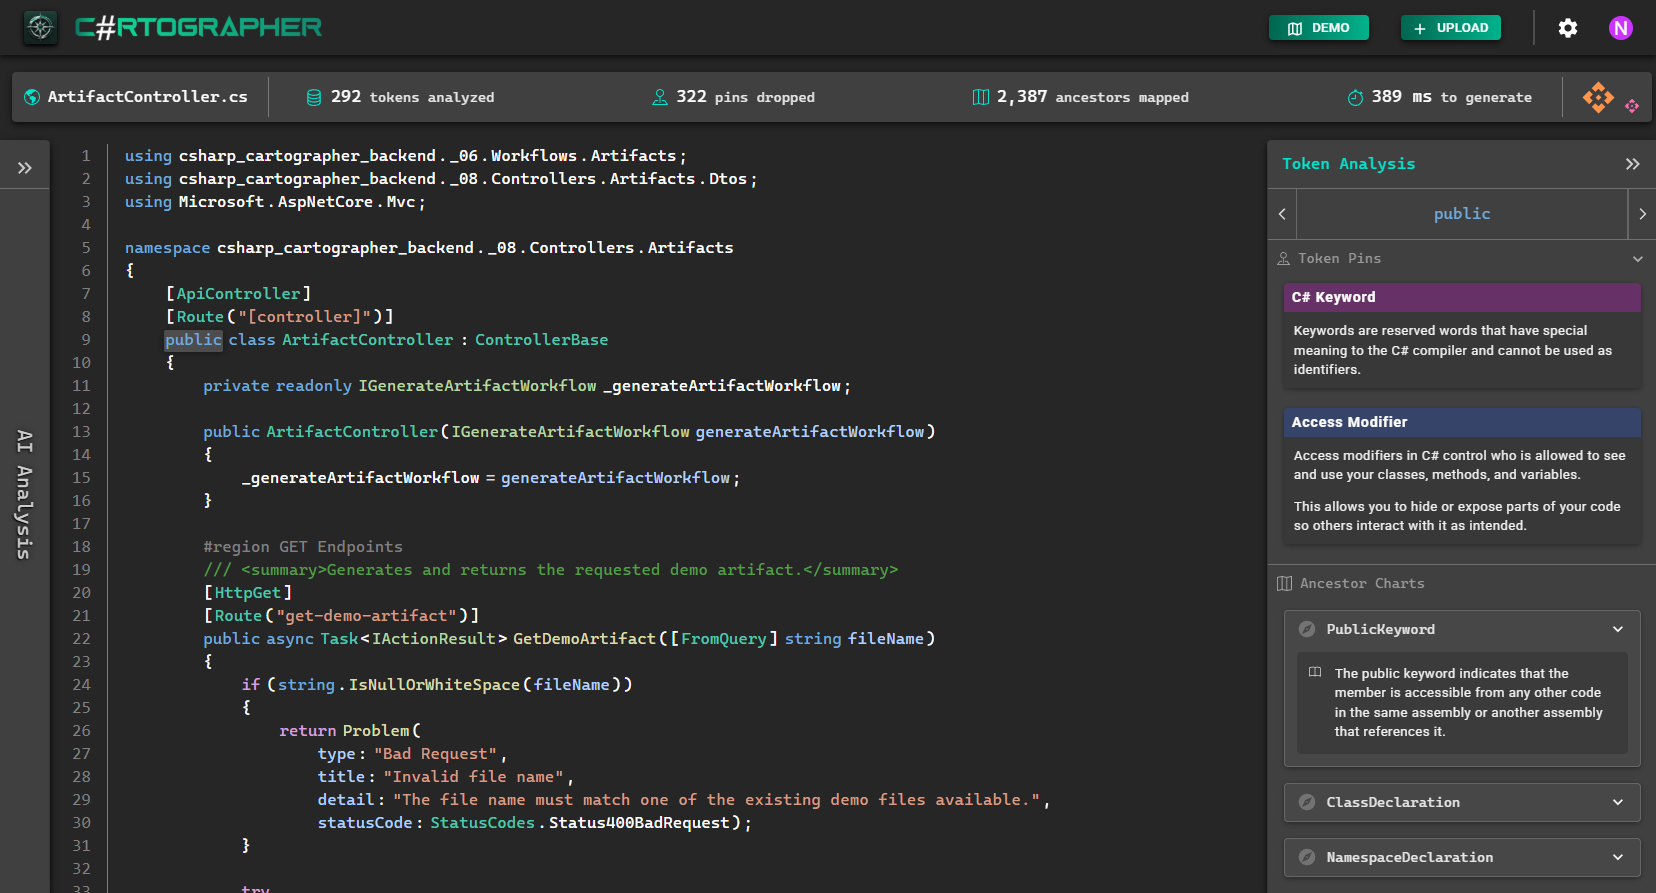
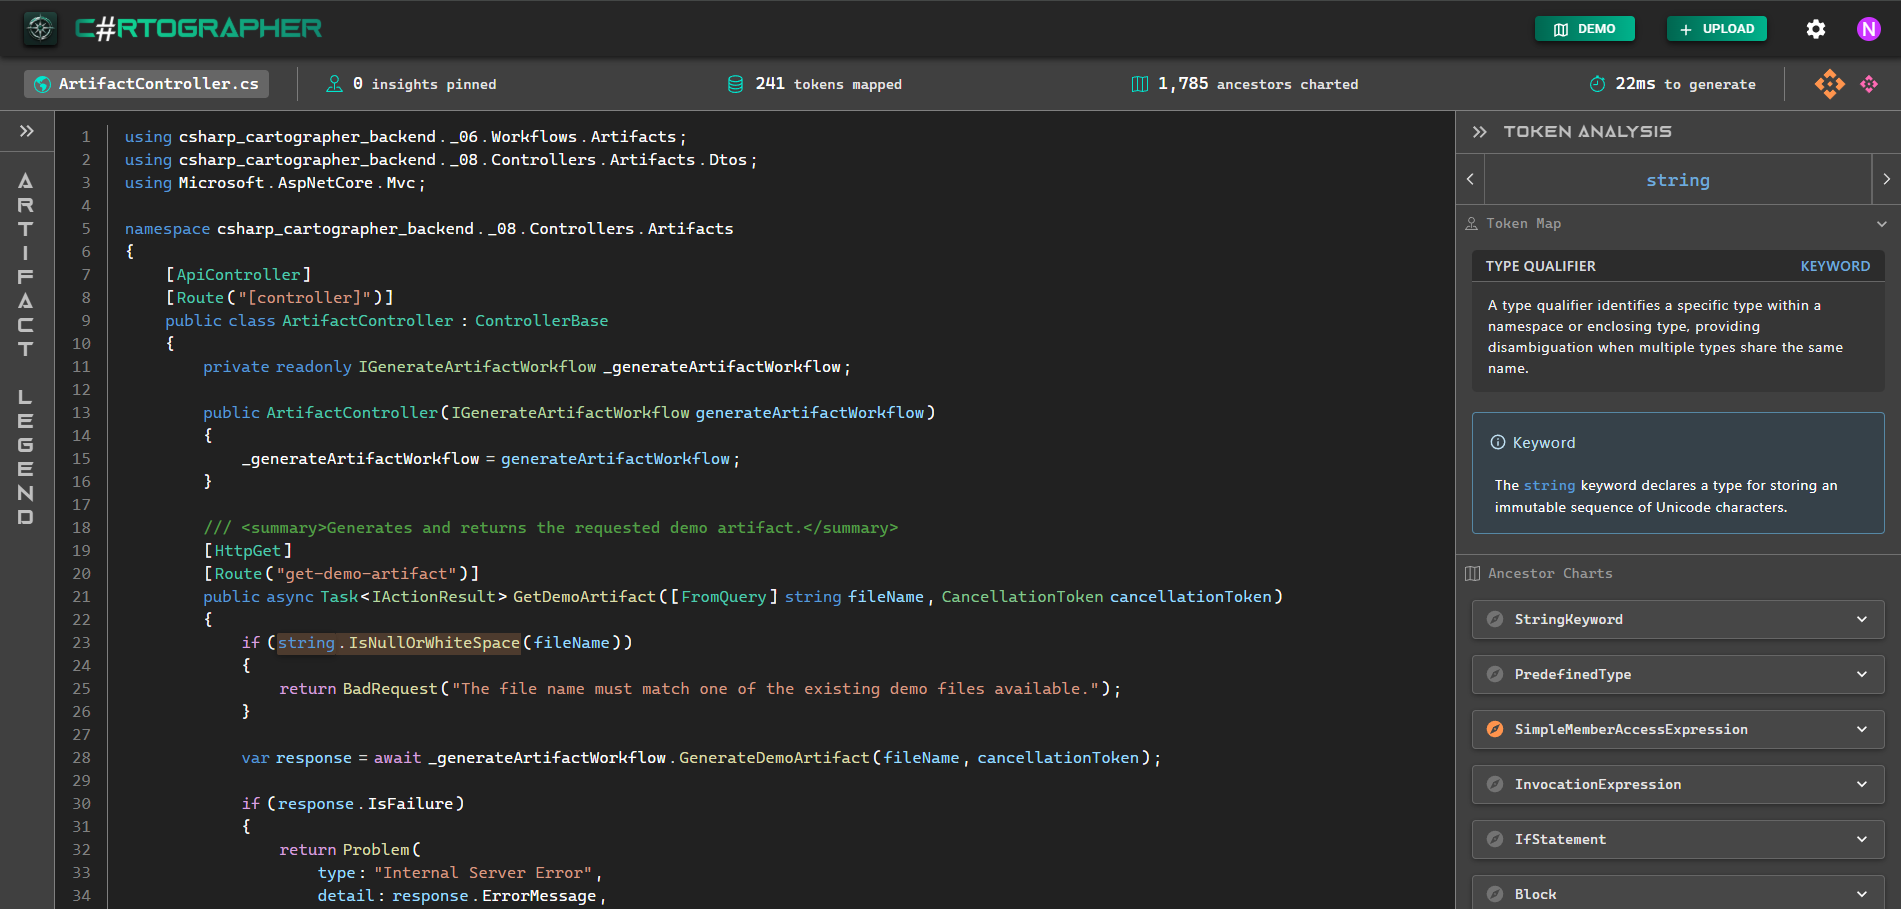
Updating demo screenshot

diff --git a/csharp-cartographer-frontend/src/components/ArtifactNavigation/TokenAnalysis/TokenSidebarContent.jsx b/csharp-cartographer-frontend/src/components/ArtifactNavigation/TokenAnalysis/TokenSidebarContent.jsx
@@ -335,7 +335,7 @@ const TokenSidebarContent = ({
 
                     <Stack>
 
-                        <Divider sx={{ bgcolor: '#808080' }} />
+                        {/* <Divider sx={{ bgcolor: '#808080' }} />
                         <Typography
                             className='code'
                             sx={{
@@ -371,7 +371,7 @@ const TokenSidebarContent = ({
                             }}
                         >
                             corrected: [{classifications?.corrected}]
-                        </Typography>
+                        </Typography> */}
 
                         <Divider sx={{ bgcolor: '#808080' }} />
 
